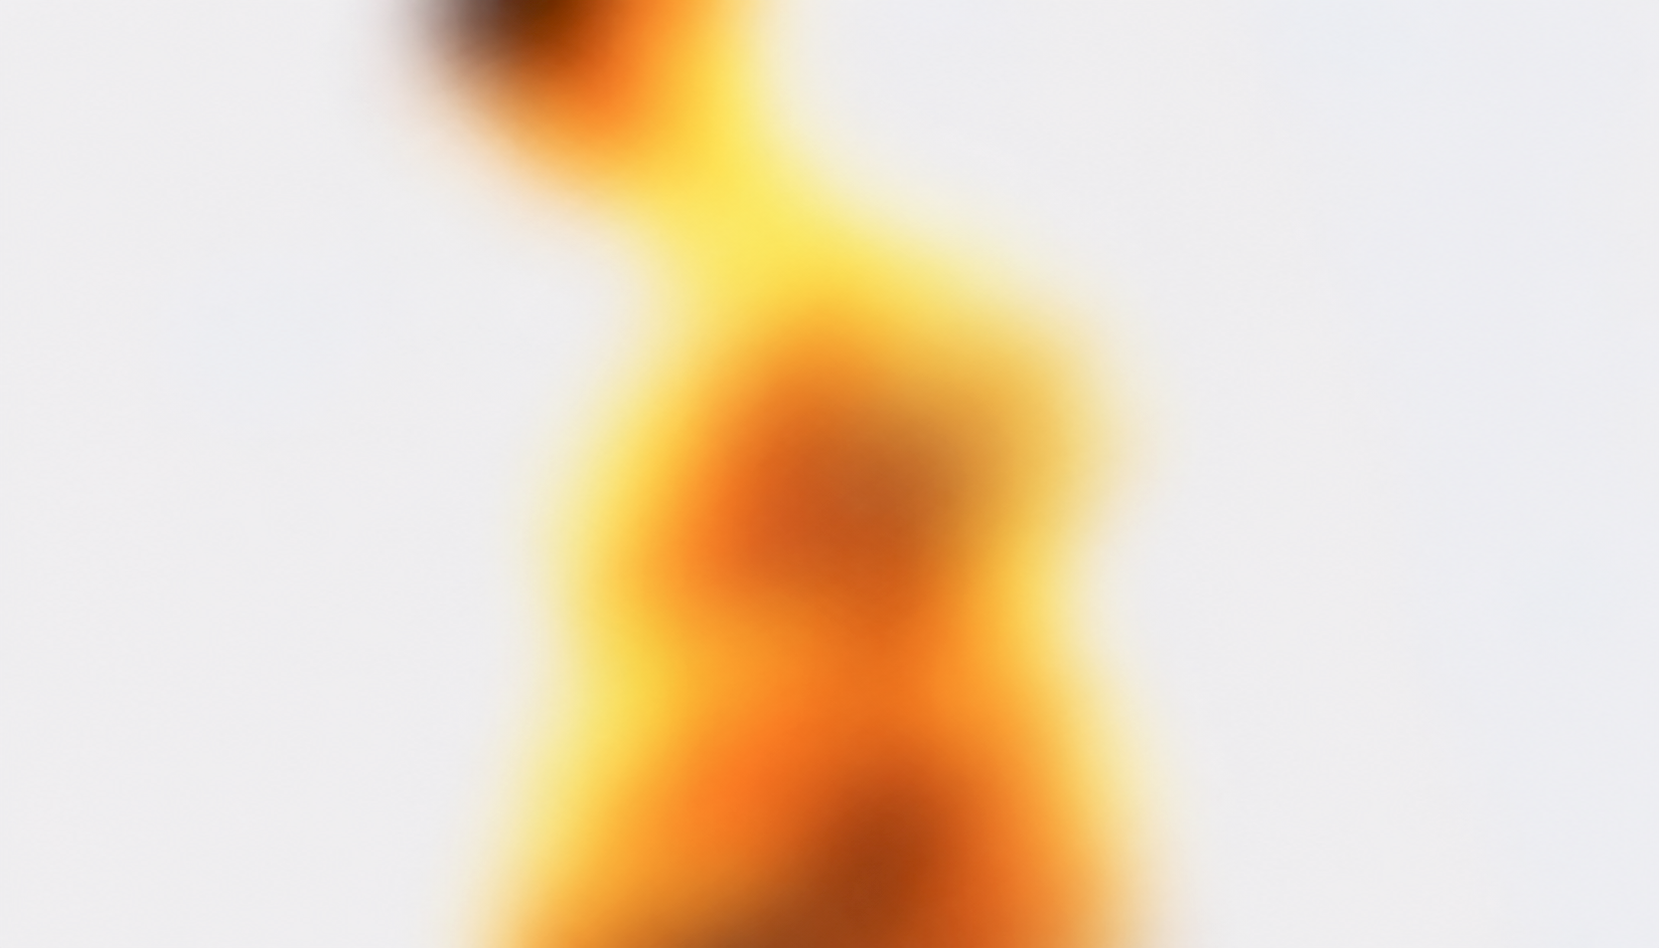
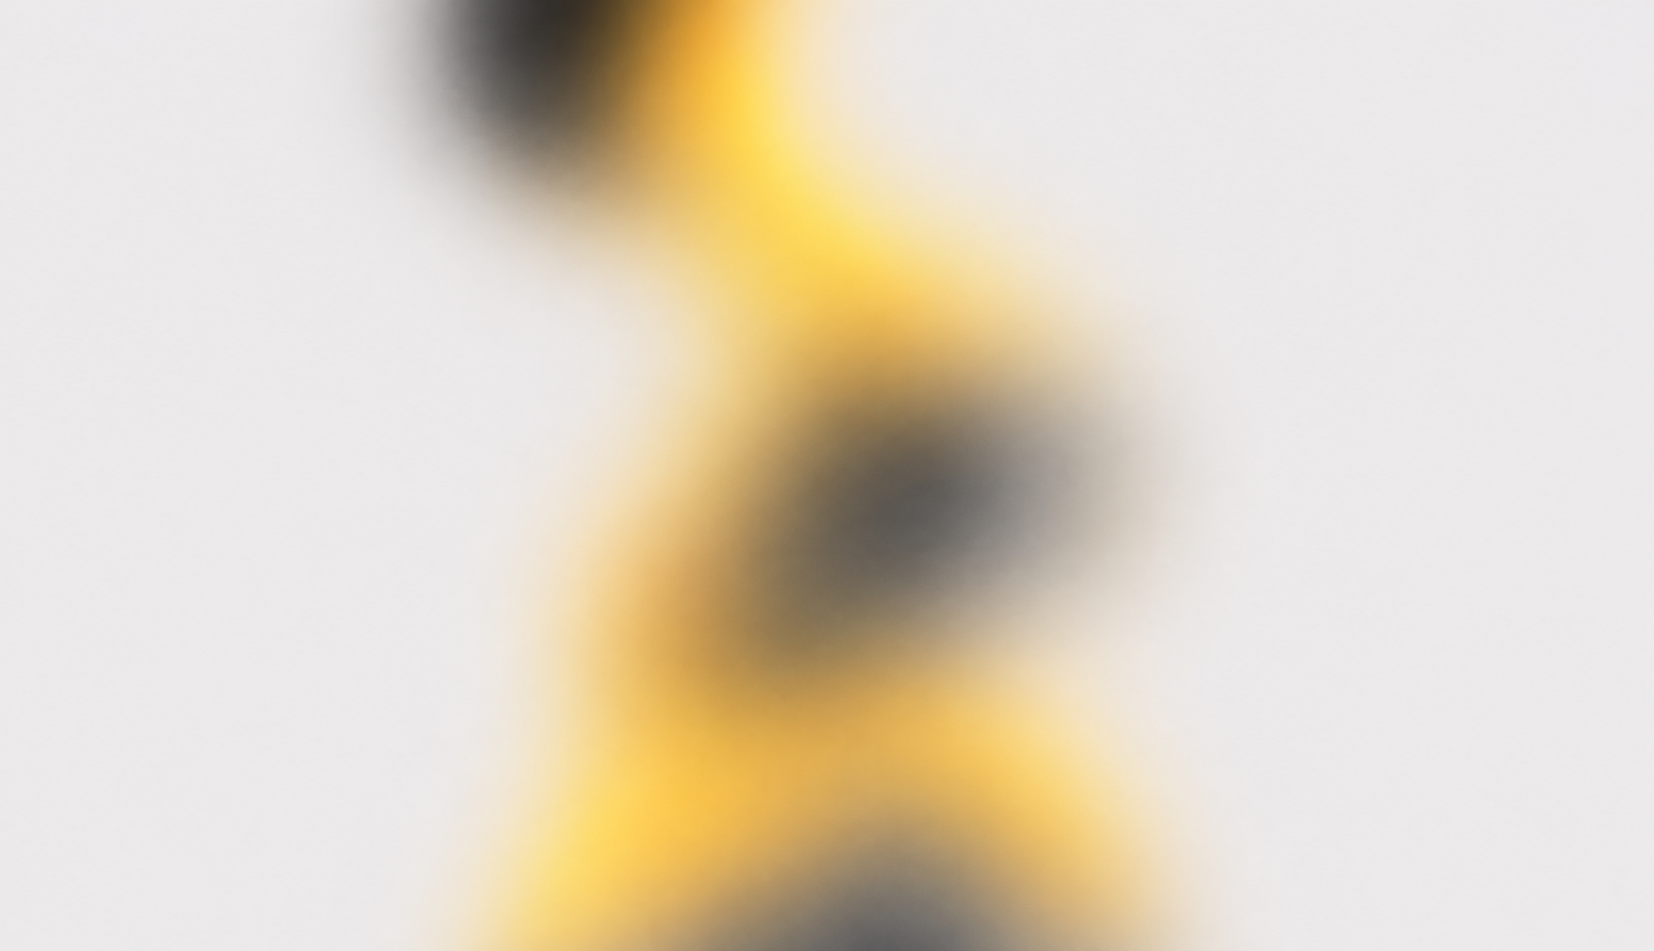
KM-15: mobile /inbox takes the new glow artwork as a 9 KB WebP
Founder supplied a new picture (yellow with grey cores) as WebP for the phone,
and had already swapped src/assets/inbox-glow.png to the same artwork for
desktop (the original orange PNG is kept as inbox-glow1.png).

Two formats, one picture: the phone loads inbox-glow-mobile.webp at 9 KB,
desktop loads inbox-glow.png at 1,044 KB. Browsers do not fetch background
images for rules whose media query does not match, so each viewport pulls
exactly one — verified at 375px: the WebP is the only glow asset requested and
the PNG is not fetched at all. Drift stays off for the same reason as at lg.

CONTRAST, measured on the actual artwork by decoding it and sampling the
darkest pixel inside each text box at 375x812 (large-text threshold 3.0, since
all of these are >= 24px):
  greeting "Good evening,"  4.52:1  PASS
  score numeral "18"       13.50:1  PASS
  "/100"                    5.15:1  PASS
  greeting muted "Rajesh."  1.73:1  FAIL

The one failure is real and worth naming rather than burying: this artwork has
dark grey cores where the orange one had none, and the muted half of the
greeting lands on one. At 1.73:1 it is close to unreadable. It is shipped as
asked — it is the founder's picture and his landing screen — but flagged, with
the options being to nudge the background-position so the core clears the
greeting, drop the two-tone greeting on this page, or darken the muted token
here (which at the required ~rgb(55,53,50) would collapse the two tones into
one anyway).

Changed region(s): [[0.2158, 0.0, 0.7092, 1.0]]

diff --git a/frontend/src/index.css b/frontend/src/index.css
@@ -1244,6 +1244,29 @@ html[data-dex="1"].dark .text-muted-foreground { color: hsl(var(--muted-foregrou
    but on artwork with real internal structure it becomes a visibly sliding
    picture. ::after already sits at opacity 0 app-wide, so ::before is the only
    layer painting and this is the only rule that has to change. */
+/* KM-15 — the phone gets the artwork back, as the 9 KB WebP.
+   KM-14 had reverted mobile to the gradient because the ORANGE artwork's
+   landscape crop put the hot core under the hero. This is a different picture
+   (yellow with grey cores) supplied as WebP, and it is what the founder wants
+   on the phone.
+
+   Two formats, one picture: the phone loads inbox-glow-mobile.webp at 9 KB,
+   desktop loads inbox-glow.png at 1,044 KB. Browsers do not fetch background
+   images for rules whose media query does not match, so each viewport pulls
+   exactly one of them.
+
+   Drift is off for the same reason as at lg: on artwork with real internal
+   structure a 90s pan reads as a sliding picture, not as light moving. */
+@media (max-width: 1023.98px) {
+    html[data-page="inbox"] .app-sky::before {
+        background-image: url("./assets/inbox-glow-mobile.webp");
+        background-size: cover;
+        background-position: center center;
+        animation: none;
+        transform: none;
+    }
+}
+
 @media (min-width: 1024px) {
     html[data-page="inbox"] .app-sky::before {
         background-image: url("./assets/inbox-glow.png");
